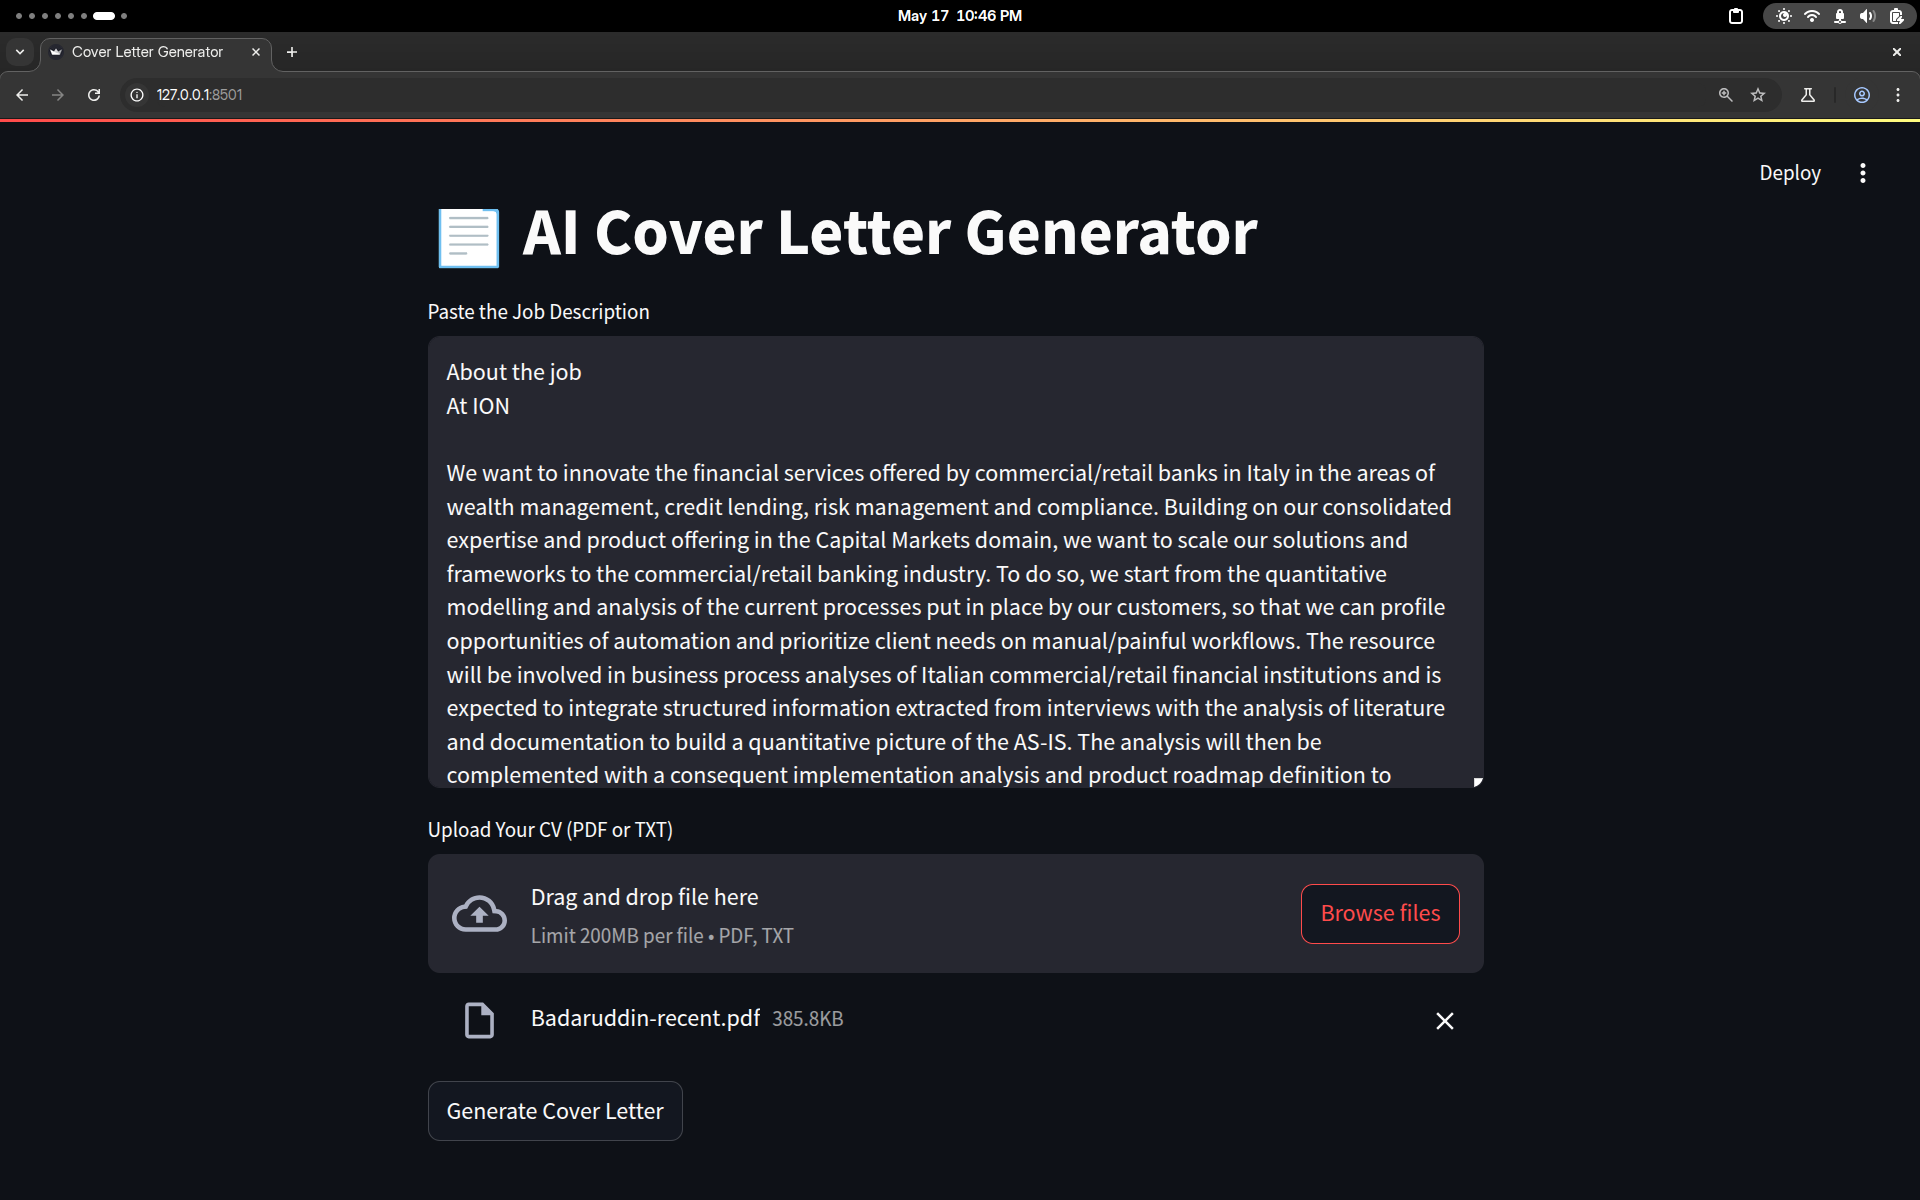
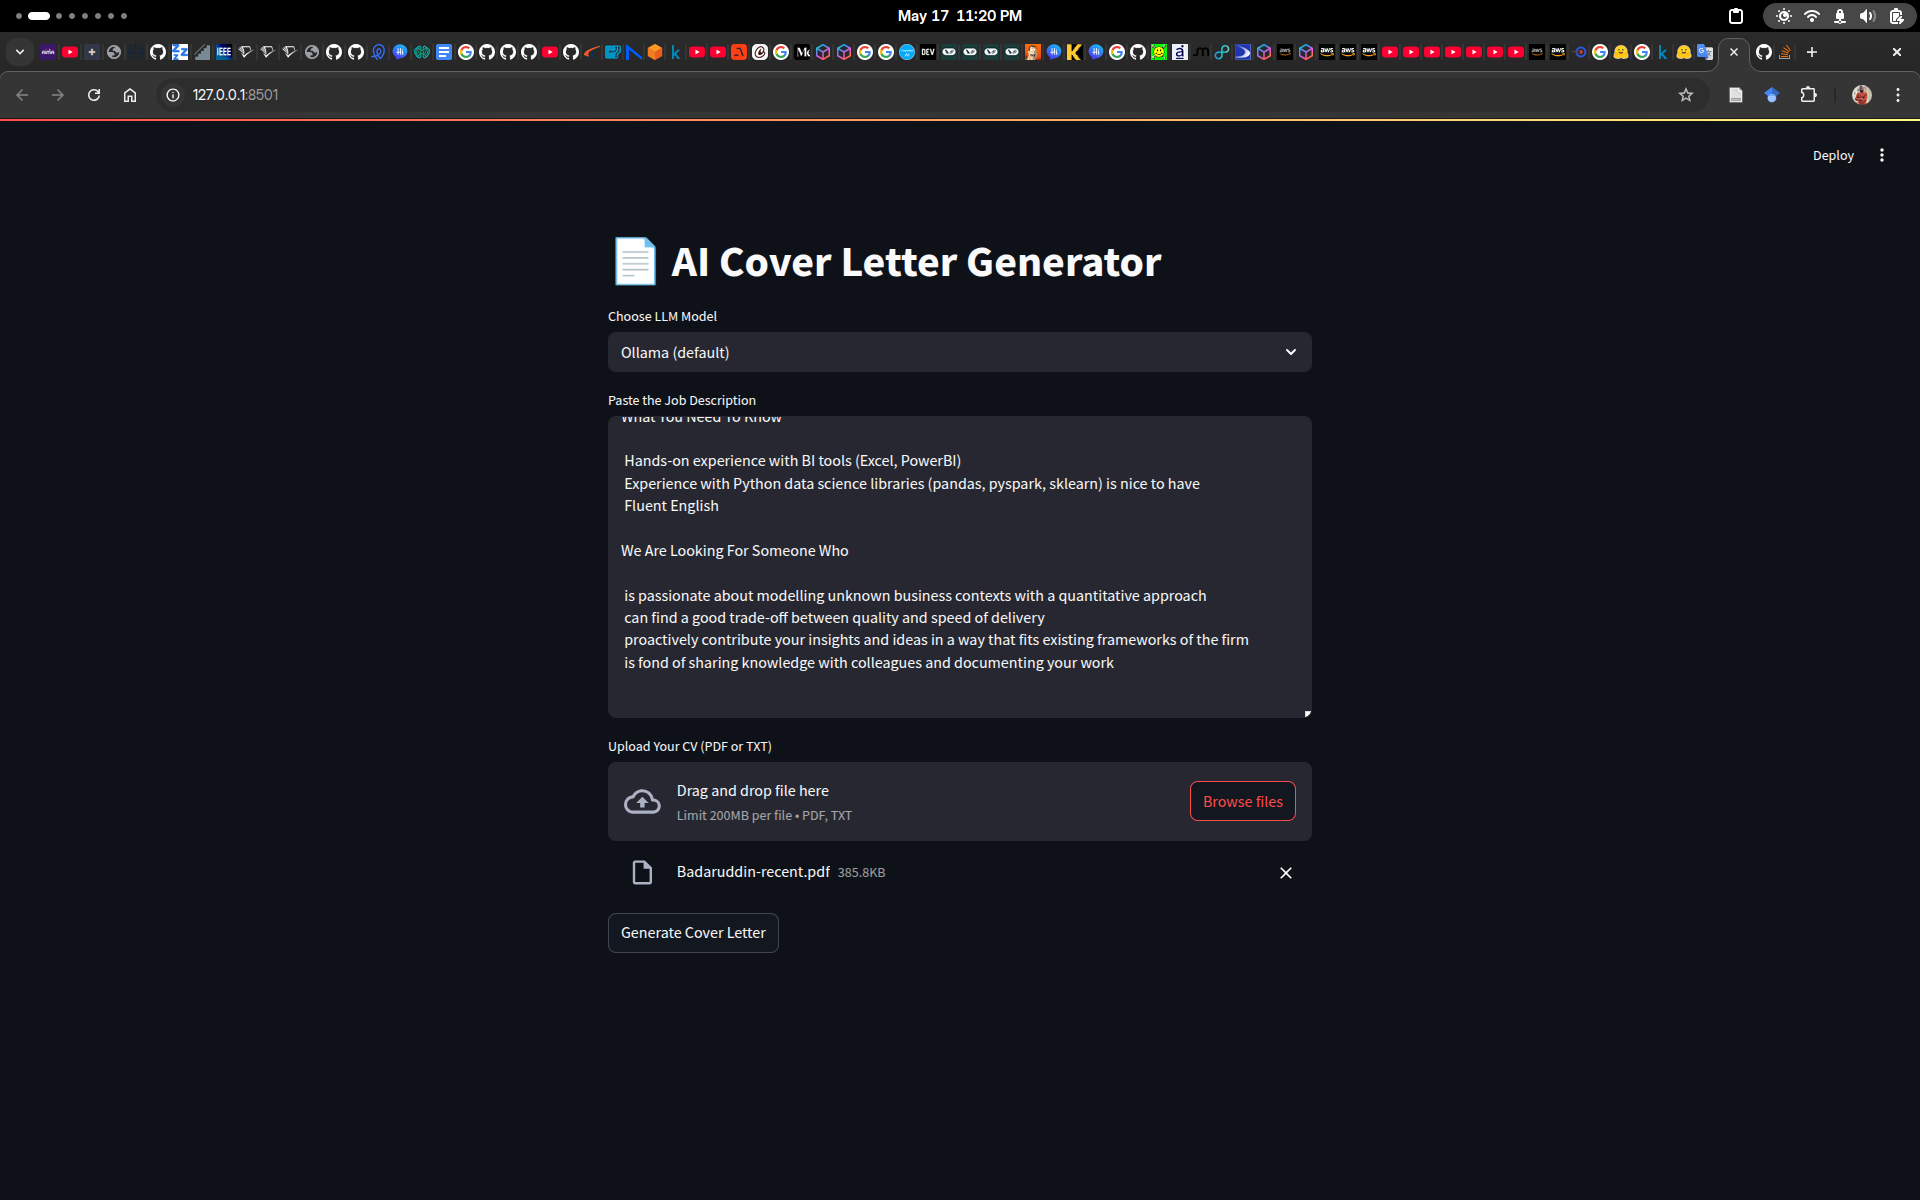
Update README with model selection info and add images

diff --git a/app.py b/app.py
@@ -4,6 +4,7 @@ from langchain_core.prompts import PromptTemplate
 from langchain_community.chat_models import ChatOllama
 from langchain_core.output_parsers import StrOutputParser
 
+
 template = """
 You are a professional career assistant and cover letter writer.
 
@@ -19,6 +20,30 @@ Do not use any placeholders like [Your Name], [Company Name], etc. Use real info
 If the candidate's name is present in the CV, use it. If the company name or job title is present in the job description, use it. Otherwise, gracefully omit them.
 
 """
+
+from langchain.chat_models import ChatOpenAI
+from langchain.prompts import PromptTemplate
+import os
+
+def generate_cover_letter_with_chatgpt(job_description: str, cv_text: str) -> str:
+    # Use your OpenAI key (best via environment variable)
+    openai_api_key = os.getenv("OPENAI_API_KEY")
+
+    if not openai_api_key:
+        raise ValueError("OpenAI API key not found. Set OPENAI_API_KEY environment variable.")
+
+    llm = ChatOpenAI(model="gpt-3.5-turbo", temperature=0.7, openai_api_key=openai_api_key)
+
+    prompt = PromptTemplate(
+        template=template,
+        input_variables=["job_description", "cv_text"]
+    )
+
+    chain = prompt | llm
+    result = chain.invoke({"cv": cv_text, "job": job_description})
+    return result.content
+
+
 def generate_cover_letter_with_ollama(job_description: str, cv_text: str, model_name="llama3") -> str:
     # Define the prompt template
     prompt = PromptTemplate(template=template, input_variables=["job_description", "cv_text"])
@@ -40,8 +65,14 @@ st.set_page_config(page_title="Cover Letter Generator", layout="centered")
 
 st.title("📄 AI Cover Letter Generator")
 
+# Add selection box for model choice
+model_choice = st.selectbox(
+    "Choose LLM Model",
+    options=["Ollama (default)", "ChatGPT"]
+)
+
 # Job description input
-job_description = st.text_area(
+jd = st.text_area(
     "Paste the Job Description",
     height=300,
     placeholder="Paste the full job description here..."
@@ -66,15 +97,20 @@ def extract_cv_text(uploaded_file):
     else:
         return ""
 
+
 # Placeholder for the generated cover letter
 if generate_button:
-    if not job_description or not cv_file:
+    if not jd or not cv_file:
         st.error("Please provide both the job description and upload your CV.")
     else:
         with st.spinner("Generating your cover letter..."):
-            cv_text = extract_cv_text(cv_file)
+            cv = extract_cv_text(cv_file)
 
             st.subheader("📝 Generated Cover Letter")
-            cover_letter = generate_cover_letter_with_ollama(job_description, cv_text)
+
+            if model_choice == "Ollama (default)":
+                cover_letter = generate_cover_letter_with_ollama(job_description=jd, cv_text=cv)
+            else:
+                cover_letter = generate_cover_letter_with_chatgpt(job_description=jd, cv_text=cv)
             st.text_area("Cover Letter", value=cover_letter, height=400)
 

diff --git a/README.md b/README.md
@@ -10,6 +10,7 @@ An intelligent Streamlit application that generates **tailored, professional cov
 * ✅ Upload your CV in `.pdf` or `.txt` format
 * ✅ Click a single button to generate a custom cover letter
 * ✅ Uses **LangChain** + **Ollama** to run models locally (e.g., LLaMA 3, Mistral, etc.)
+* ✅ Uses LangChain + Ollama or OpenAI API for generation
 * ✅ Automatically aligns candidate experience with job requirements
 * ✅ Avoids placeholders like `[Your Name]`; uses actual information from CV and job post
 
@@ -93,6 +94,24 @@ ollama serve
 ```
 
 > Ollama runs on `http://localhost:11434` by default — LangChain will connect automatically.
+
+---
+
+## 🧠 OpenAI ChatGPT API Setup
+### 1. Get Your API Key
+Sign up or log in at https://platform.openai.com/signup
+
+Create an API key from https://platform.openai.com/account/api-keys
+
+### 2. Set Your API Key as an Environment Variable
+```bash
+export OPENAI_API_KEY="sk-xxxxxxxxxxxxxxxxxxxxxxxxxxxxxxxx"
+````
+(Windows PowerShell)
+
+```powershell
+setx OPENAI_API_KEY "sk-xxxxxxxxxxxxxxxxxxxxxxxxxxxxxxxx"
+```
 
 ---
 
